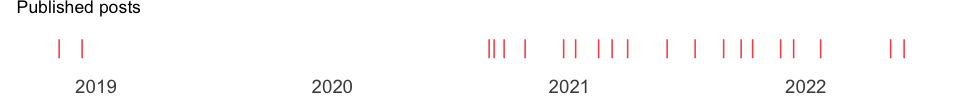
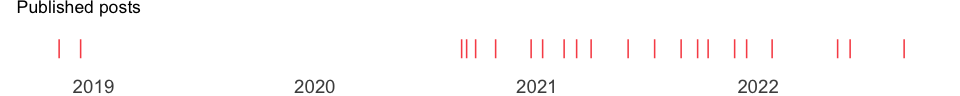
Re-build README.Rmd

diff --git a/README.md b/README.md
@@ -18,14 +18,13 @@ creators out there,
 
 # Some stats ⚠ WIP
 
-🎉 Piping Hot Data has **21** posts since **2018-11-05**\!
+🎉 Piping Hot Data has **22** posts since **2018-11-05**\!
 
-📅 That’s a post roughly every **35** days, or about 0.8 posts per month,
+📅 That’s a post roughly every **33** days, or about 0.8 posts per month,
 since 2020-08-30.
 
-✍ The last post was published **89** days ago ([Locating R and R
-Adjacent Software and Configuration
-Files](https://www.pipinghotdata.com/posts/2022-06-02-locating-r-and-r-adjacent-software-and-configuration-files)).
+✍ The last post was published **0** days ago ([My 4 Biggest Internship
+Takeaways](https://www.pipinghotdata.com/posts/2022-08-30-my-4-biggest-internship-takeaways)).
 As Yihui Xie advises, I try to write like no one is reading. But your
 feedback does help motivate me to keep writing. 😉
 
@@ -37,6 +36,7 @@ feedback does help motivate me to keep writing. 😉
 
 | Date       | Title                                                                                                                                                                                             |
 | :--------- | :------------------------------------------------------------------------------------------------------------------------------------------------------------------------------------------------ |
+| 2022-08-30 | [My 4 Biggest Internship Takeaways](https://www.pipinghotdata.com/posts/2022-08-30-my-4-biggest-internship-takeaways)                                                                             |
 | 2022-06-02 | [Locating R and R Adjacent Software and Configuration Files](https://www.pipinghotdata.com/posts/2022-06-02-locating-r-and-r-adjacent-software-and-configuration-files)                           |
 | 2022-05-12 | [Code line highlighting in Quarto revealjs presentations](https://www.pipinghotdata.com/posts/2022-05-12-code-line-highlighting-in-quarto-revealjs-presentations)                                 |
 | 2022-01-24 | [Report Ready PDF tables with rmarkdown, knitr, kableExtra, and LaTeX](https://www.pipinghotdata.com/posts/2022-01-24-report-ready-pdf-tables-with-rmarkdown-knitr-kableextra-and-latex)          |
@@ -68,4 +68,4 @@ Dray](https://www.rostrum.blog/2021/04/14/gha-readme/); giscus
 commenting was motivated by [Joel
 Nitta](https://www.joelnitta.com/posts/2021-11-24_using-giscus/).*
 
-*Updated 2022-08-30 06:20:18*
+*Updated 2022-08-30 20:05:08*
